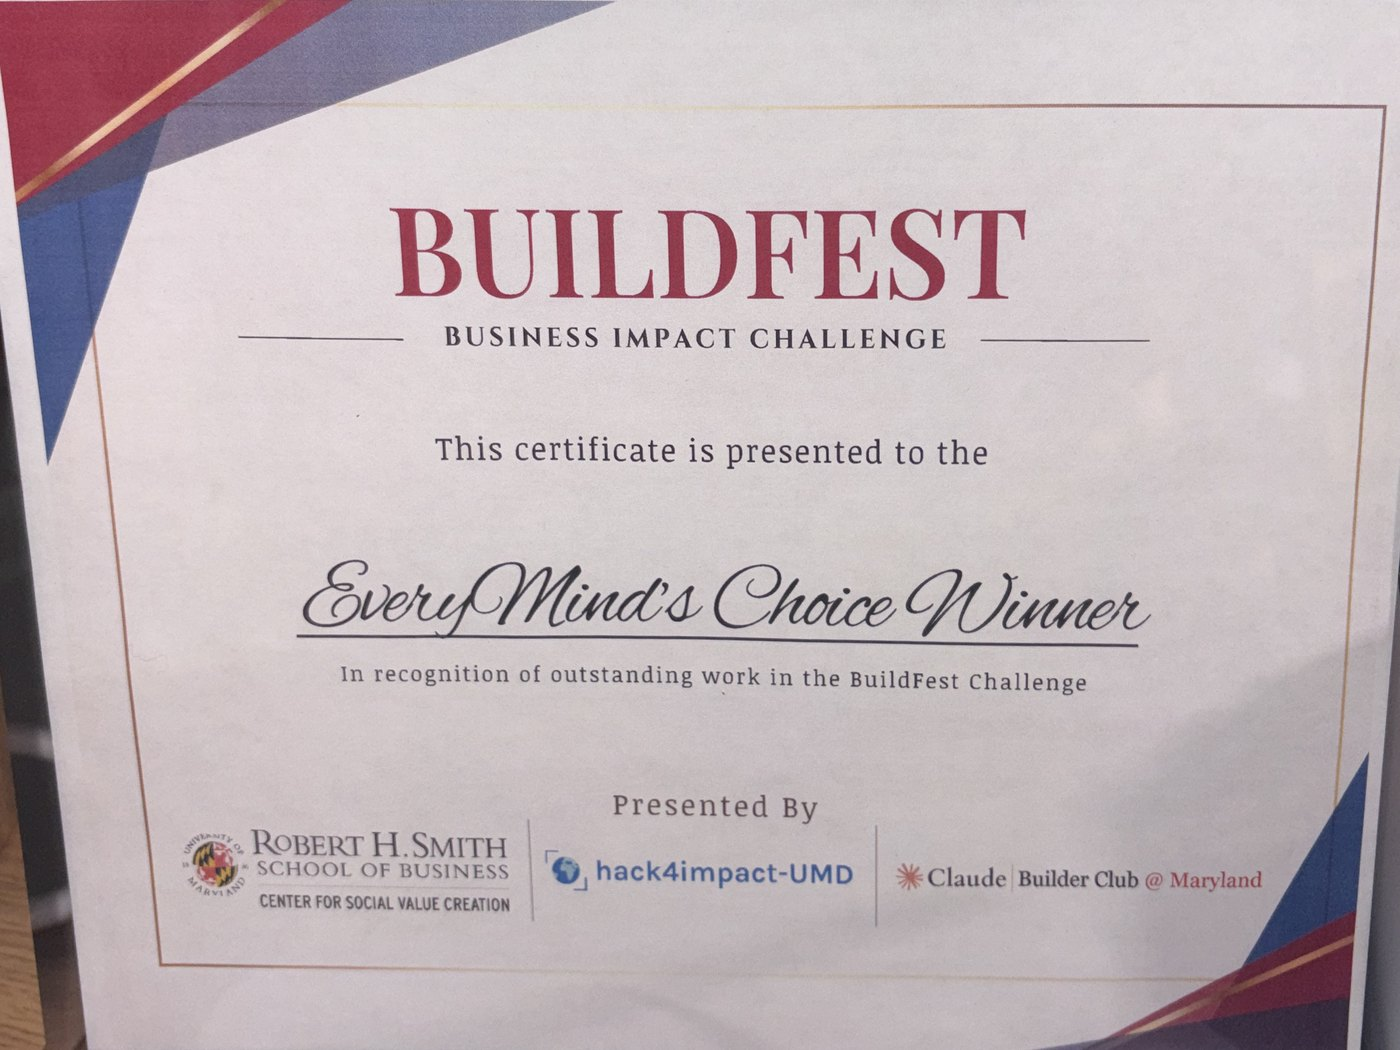
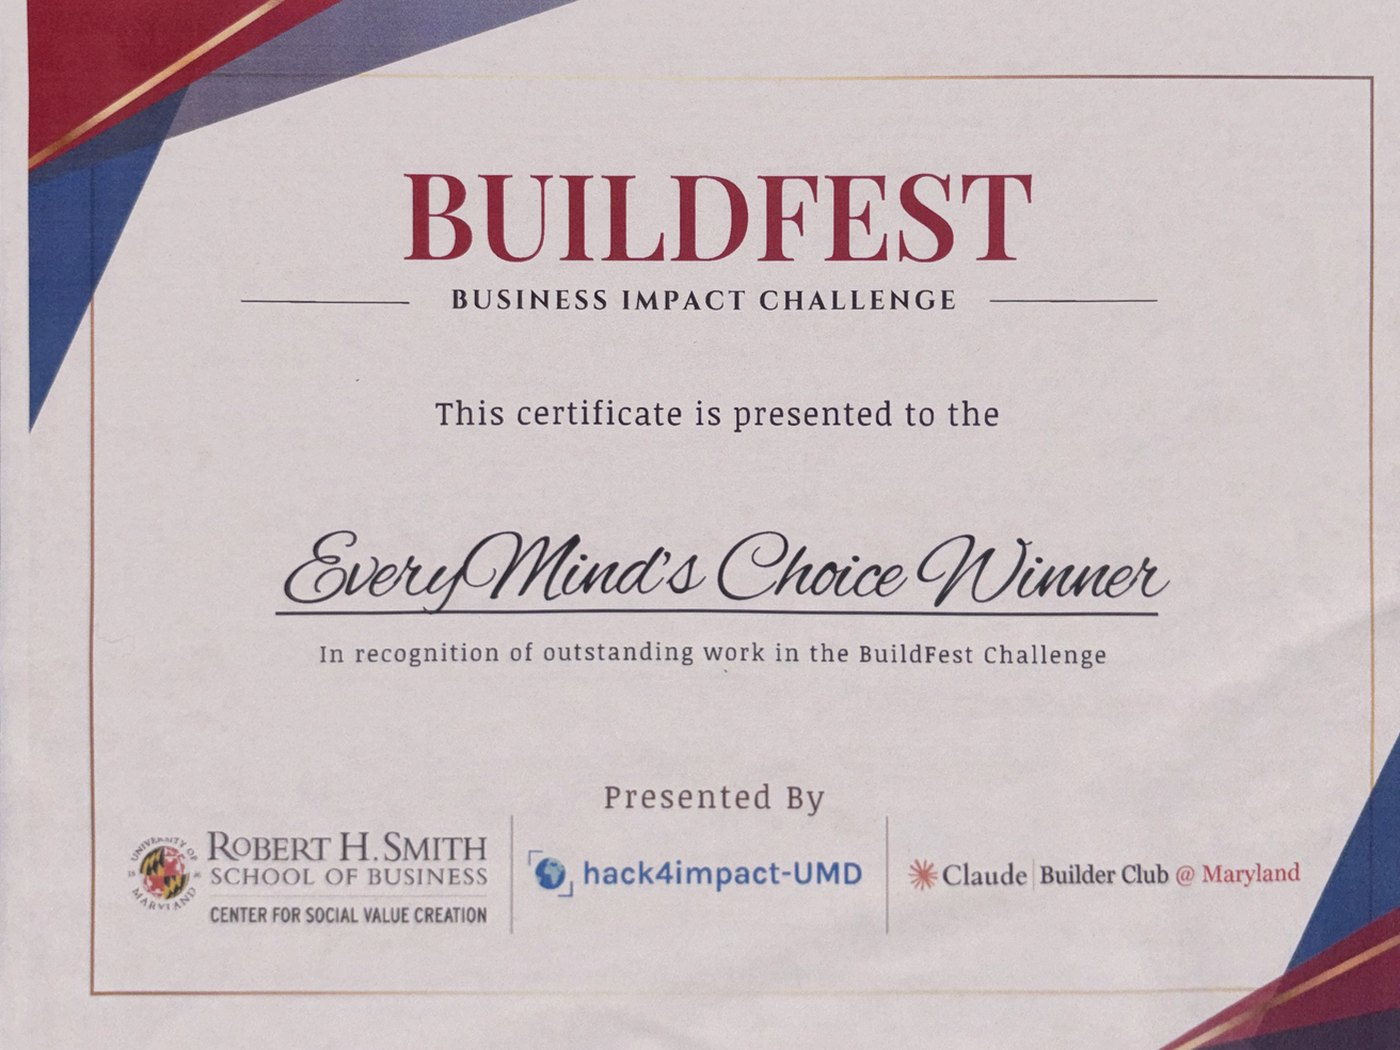
Flat, de-glared award certificates; new share preview image and description; remove dead scroll-stop code

diff --git a/otv3d.js b/otv3d.js
@@ -59,14 +59,6 @@ const lazy = (sec, start, fail) => {
   io.observe(sec);
 };
 
-// A pinned 3D section's chapters as scroll stops (see main.js): fractions of the scroll through it.
-const stopsFor = (sec, fr) => (window.scrollStops ||= []).push(() => {
-  if (!sec.classList.contains("o3-live")) return [];
-  const stage = sec.querySelector(".o3-stage");
-  const top = sec.getBoundingClientRect().top + scrollY, travel = sec.offsetHeight - stage.offsetHeight;
-  return travel > 0 ? fr.map((f) => top + travel * f) : [];
-});
-
 const makeRenderer = (K, canvas) => {
   const { THREE } = K;
   const renderer = new THREE.WebGLRenderer({ canvas, antialias: true, alpha: true, powerPreference: "high-performance" });
@@ -355,7 +347,6 @@ if (tourSec) {
   else {
     tourSec.classList.add(REDUCED ? "o3-still" : "o3-live");
     if (!REDUCED) dispatchEvent(new Event("resize"));
-    stopsFor(tourSec, [0, 0.2, 0.4, 0.6, 0.8, 1]);
     lazy(tourSec, () => tour(tourSec), () => { tourSec.classList.remove("o3-live", "o3-still"); tourSec.classList.add("o3-off"); dispatchEvent(new Event("resize")); });
   }
 }
@@ -554,13 +545,6 @@ if (runSec && map2d) {
     const noteEl = document.querySelector(".o3r-note");
     if (note && noteEl) noteEl.textContent = note.textContent;
     runSec.classList.add("o3-live", RUN_MODE === "scrub" ? "o3r-scrub" : "o3r-lockmode");
-    // scroll stops: the start, just into each moment that plays on its own (the pool, the underside,
-    // the limbo), the goal and the end. Same chapter weights as course() below.
-    if (RUN_MODE === "scrub") {
-      const Wt = [0.5, 0.7, 1.4, 0.5, 0.5, 1.6, 1.1, 0.8], sum = Wt.reduce((x, y) => x + y, 0);
-      const at = (k, f = 0) => (Wt.slice(0, k).reduce((x, y) => x + y, 0) + Wt[k] * f) / sum;
-      stopsFor(runSec, [0, at(2, 0.08), at(3), at(5, 0.08), at(6, 0.08), at(7), 1]);
-    }
     document.documentElement.classList.add("o3r-on");
     dispatchEvent(new Event("resize"));
     lazy(runSec, () => course(runSec, routes), () => {
@@ -1182,7 +1166,6 @@ if (capSec) {
     capSec.classList.add("o3-live");
     document.documentElement.classList.add("o3c-on");
     dispatchEvent(new Event("resize"));
-    stopsFor(capSec, [0, 0.45, 0.81, 1]); // assembled, apart, back together, the shot
     lazy(capSec, () => capScene(capSec), () => {
       capSec.classList.remove("o3-live"); capSec.classList.add("o3-off");
       document.documentElement.classList.remove("o3c-on"); dispatchEvent(new Event("resize"));
@@ -1553,7 +1536,6 @@ if (plutoSec) {
   else {
     plutoSec.classList.add("o3-live");
     dispatchEvent(new Event("resize"));
-    stopsFor(plutoSec, [0, ...[0, 1, 2, 3, 4, 5, 6].map((k) => (k + 0.92) / 7)]); // each message once it has arrived
     lazy(plutoSec, () => plutoScene(plutoSec), () => { plutoSec.classList.remove("o3-live"); plutoSec.classList.add("o3-off"); dispatchEvent(new Event("resize")); });
   }
 }

diff --git a/index.html b/index.html
@@ -17,12 +17,12 @@
 <link rel="canonical" href="https://meandelman.com/">
 <meta property="og:url" content="https://meandelman.com/">
 <meta property="og:type" content="website">
-<meta property="og:title" content="Micah Andelman">
-<meta property="og:description" content="Electrical engineering student at the University of Maryland, class of 2030. Projects and experience.">
+<meta property="og:title" content="Micah Andelman | Electrical Engineering, University of Maryland">
+<meta property="og:description" content="BuildFest 2026 winner. I design and build working hardware and software: an autonomous robot, a macro-counting camera cap, an AI agent and a tool for a mental health nonprofit. Explore each one in 3D.">
 <meta property="og:image" content="https://meandelman.com/og.png">
 <meta property="og:image:width" content="1200">
 <meta property="og:image:height" content="630">
-<meta property="og:image:alt" content="Micah Andelman, electrical engineering, University of Maryland. meandelman.com">
+<meta property="og:image:alt" content="Micah Andelman, electrical engineering, University of Maryland: BuildFest 2026 first place, with 3D previews of four projects. meandelman.com">
 <meta name="twitter:card" content="summary_large_image">
 <meta name="theme-color" content="#101614">
 <link rel="icon" href="/favicon.ico" sizes="48x48">

diff --git a/main.js b/main.js
@@ -605,13 +605,6 @@ const lenis = (() => {
     return { fig, svg, wrap, steps, traces, T, mcu: svg.querySelector(".blk.mcu"), extra: 0, p: -1, onScreen: false };
   });
 
-  // Each pinned diagram stops at the start, after the copper comes in, after it goes out, and at the end.
-  (window.scrollStops ||= []).push(() => scenes.flatMap((sc) => {
-    if (!sc.wrap || !sc.extra) return [];
-    const base = sc.wrap.getBoundingClientRect().top + scrollY - sc.pin;
-    return [0, sc.T.a[1], sc.T.b[1], 1].map((f) => base + sc.extra * f);
-  }));
-
   // Size each scene: the pinned diagram plus about two screens of scroll to play through.
   const layout = () => {
     const h = head ? head.offsetHeight : 0;

diff --git a/visuals.js b/visuals.js
@@ -697,8 +697,6 @@
     // the sign lights once the layers above have cleared, and goes dark again on the way back
     const lamp = () => hero.classList.toggle("pb-on", last > (hero.classList.contains("pb-on") ? 0.5 : 0.66));
 
-    // one stop: the board fully apart with the sign lit
-    (window.scrollStops ||= []).push(() => [innerHeight * 0.79 + 2]);
     addEventListener("scroll", run, { passive: true });
     run();
     addEventListener("scroll", lamp, { passive: true });

diff --git a/README.md b/README.md
@@ -11,7 +11,7 @@ It's plain HTML, CSS and JavaScript with no framework or build step, hosted on C
 - **Block diagrams** for each project. Hover a part to see what it does and open the real firmware behind each part of the robot.
 - **Scroll-driven signal flow.** Each diagram pins in place while copper fills its traces from inputs to outputs.
 - **OTV route replay** on a to-scale ENES100 arena, with a live status readout.
-- **Scroll stops.** Every scroll animation registers its chapters (`window.scrollStops`); a fast flick or a trackpad's coasting stops at the next one instead of skipping it. On touch screens they're native snap points.
+- **Calm scrolling.** Wheel and trackpad scrolling is smooth (Lenis) at about half the usual sensitivity, paced so a hard flick can't race past the scroll animations. In the OTV course, a chapter that has finished playing glides on to the next with one scroll. Touch screens scroll natively.
 - **Small extras:** a light/dark power switch, a thermal view, a serial monitor (press the backtick key), an oscilloscope intro and a few hidden things.
 - **Print stylesheet** that turns a page into a datasheet.
 
